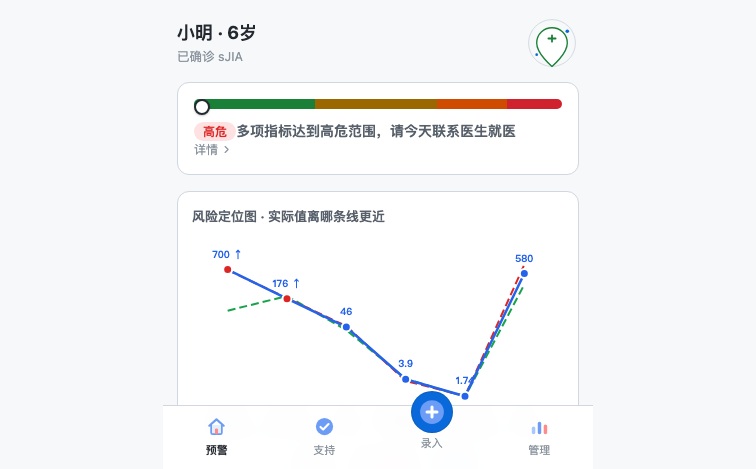
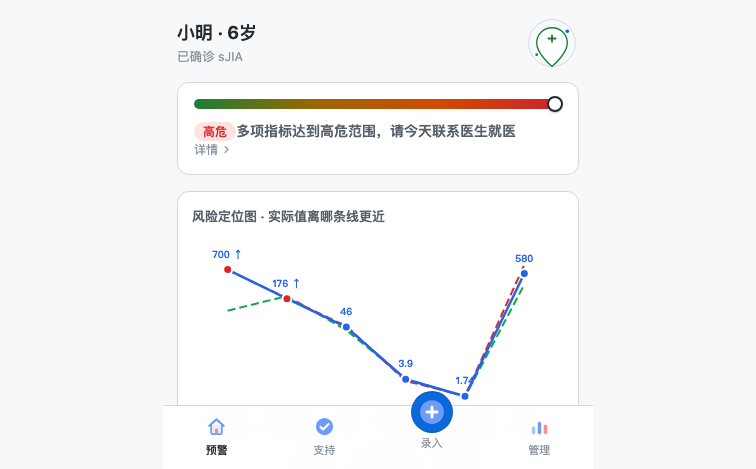
fix: 风险条圆点absolute定位样式丢失，恢复与真实数据联动

Changed region(s): [[0.2434, 0.209, 0.4259, 0.2687], [0.4868, 0.209, 0.578, 0.2388], [0.6997, 0.209, 0.7606, 0.2388]]

diff --git a/src/styles.css b/src/styles.css
@@ -134,18 +134,14 @@ button {
   position: relative;
   height: 10px;
   border-radius: 5px;
-  background: linear-gradient(
-    90deg,
-    #1a7f37 0%,
-    #1a7f37 33%,
-    #9a6700 33%,
-    #9a6700 66%,
-    #cf4b00 66%,
-    #cf4b00 85%,
-    #cf222e 85%,
-    #cf222e 100%
-  );
+  background: linear-gradient(90deg, #1a7f37 0%, #9a6700 33%, #cf4b00 66%, #cf222e 100%);
   margin-bottom: 12px;
+}
+
+.riskbar-cursor {
+  position: absolute;
+  top: 50%;
+  transform: translate(-50%, -50%);
 }
 
 .riskbar-dot {
